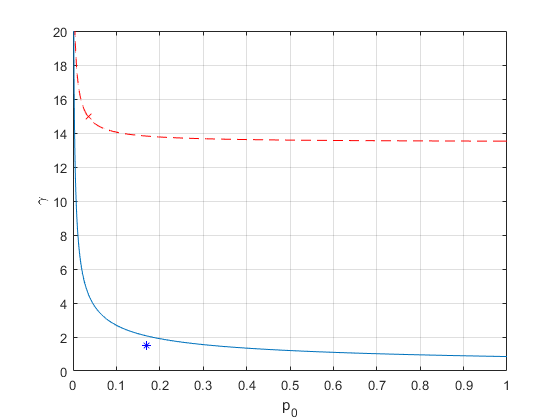
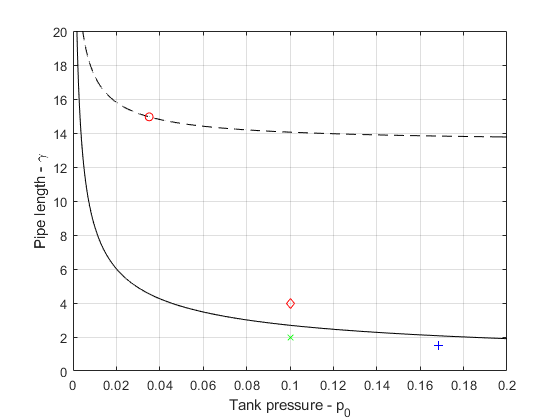
Updated bifurcation diagram and done test of background colours

diff --git a/ContinuationPlotter.m b/ContinuationPlotter.m
@@ -28,11 +28,14 @@ gamma = gamma(pres>0); pres = pres(pres>0);
 
 %% Plot two dimensional bifurcation diagram
 figure;
-plot(p_cont,gamma_cont)
+plot(p_cont,gamma_cont,'k-')
 hold on
-plot(pres,gamma,'r--')
-plot(0.0351,14.9501,'rx')
-plot(0.1686,1.4745,'b*')
-ylabel('\gamma'); xlabel('p_0')
-xlim([0,1]); ylim([0,20])
+plot(pres,gamma,'k-')
+plot(0.0351,14.9501,'ro')
+plot(0.1,4,'rd')
+plot(0.1,2,'bx')
+plot(0.1686,1.4745,'b+')
+ylabel('Pipe length - \gamma'); xlabel('Tank pressure - p_0')
+%xlim([0,1]); ylim([0,20])
+xlim([0,0.2]); ylim([0,20])
 grid on
